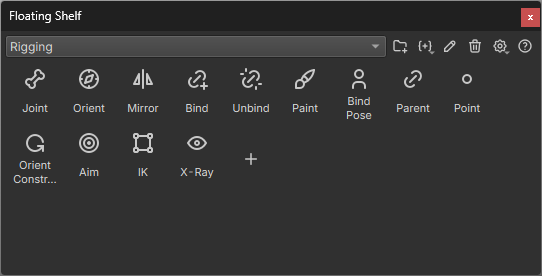
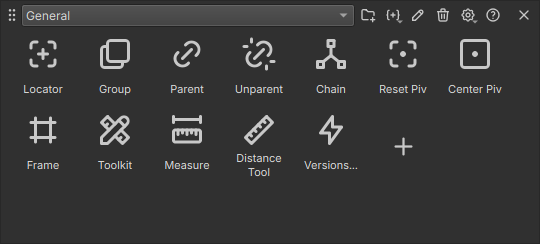
Update floating shelf image, add measure image, guided UV transfer, move formats on sidebar

diff --git a/docs/essentials.md b/docs/essentials.md
@@ -184,6 +184,19 @@ Lila has a high-end UV toolkit and the Auto UV feature can produce worthwhile re
 
 <!-- todo image -->
 
+## Transfer UVs to a similar piece
+
+Already UV'd one piece and have another like it? Select the UV'd piece, then the other, and run **Transfer Attributes** (Shift+RMB) with **Sample Space** set to **Guided**. The second piece gets the same seams and islands, laid out where the first one's are, so you UV once and reuse it.
+
+The pieces don't need to match. They can sit anywhere, be rotated or mirrored (left and right parts), be longer or shorter, or have different topology.
+
+- **Keep Island Shape** keeps each island exactly as copied. Turn it off to relax the islands to the new piece's shape.
+- **Separate Unmatched Faces** puts faces the source doesn't have, such as a cap where the source is open, into their own island beside the layout. Turn it off to merge them into the island next to them.
+
+> Maya requires identical topology, world position, or object position. Lila uses the source as a reference guide and generally produces a usable result.
+
+<!-- todo image -->
+
 ## Command line
 
 Press **Ctrl+\`** to pop up a command line and type Python straight in. There's nothing to import: commands are available by name.

diff --git a/docs/_sidebar.md b/docs/_sidebar.md
@@ -16,10 +16,10 @@
 - [System requirements](requirements.md)
 - [FAQ](faq.md)
 - [Performance](performance.md)
+- [File formats](formats.md)
 
 ---
 
-- [File formats](formats.md)
 - [Essentials](essentials.md)
 - [Curves](curves.md)
 - [Node editor](node-editor.md)
